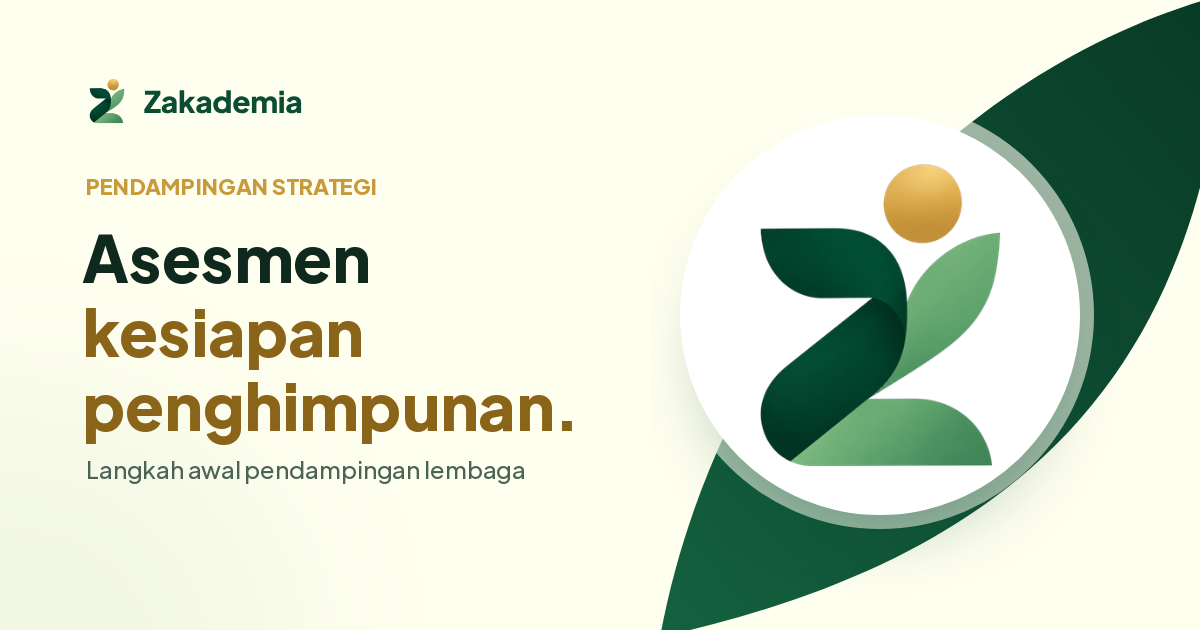
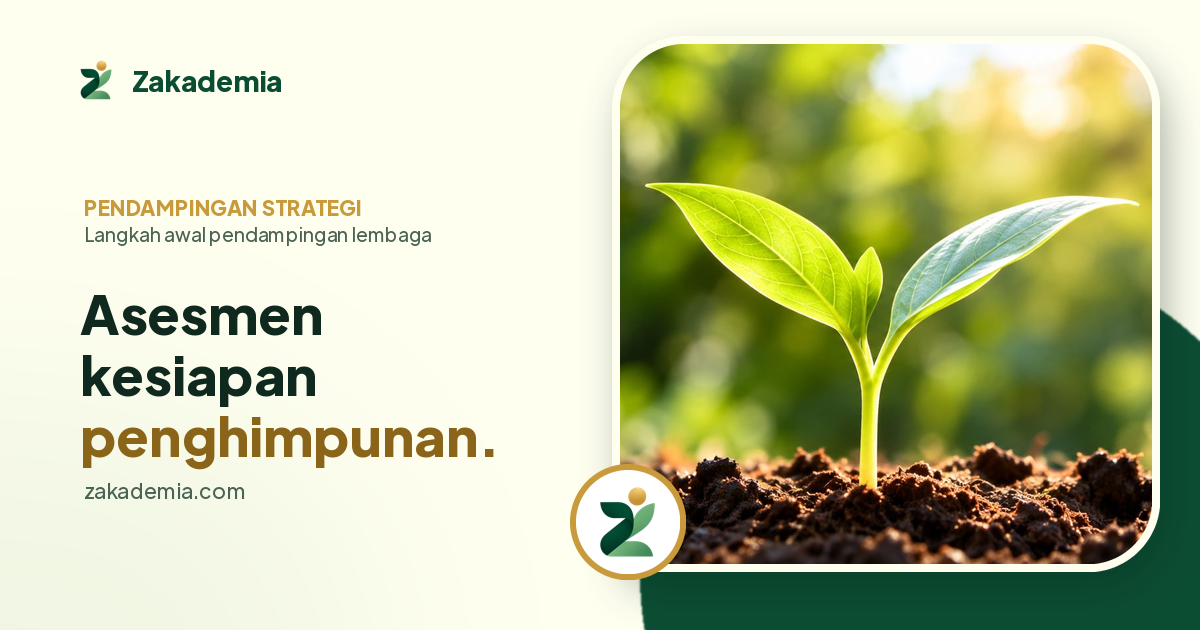
Gambar pratinjau berfoto asli dengan bingkai khas Zakademia untuk artikel Literasi dan layanan
Claude-Session: https://claude.ai/code/session_01EeyJYYscs5mASmc4nchCLR

diff --git a/asesmen/index.html b/asesmen/index.html
@@ -8,7 +8,7 @@
 <meta property="og:title" content="Asesmen Kesiapan Penghimpunan | Zakademia">
 <meta property="og:description" content="Asesmen Kesiapan Penghimpunan Zakademia untuk lembaga zakat, wakaf, dan filantropi Islam.">
 <meta property="og:type" content="website">
-<meta property="og:image" content="https://zakademia.com/assets/images/og-asesmen.png">
+<meta property="og:image" content="https://zakademia.com/assets/images/og-asesmen.png?v=2">
 <meta property="og:image:width" content="1200"><meta property="og:image:height" content="630">
 <meta name="twitter:card" content="summary_large_image">
 <link rel="icon" href="/assets/images/favicon.png">

diff --git a/tools/ogcard.py b/tools/ogcard.py
@@ -1,0 +1,88 @@
+# -*- coding: utf-8 -*-
+"""Gambar pratinjau tautan (1200x630) bergaya Zakademia: teks di kiri, foto asli berbingkai di kanan."""
+import os
+from PIL import Image, ImageDraw, ImageFont, ImageFilter, ImageOps
+
+HERE = os.path.dirname(os.path.abspath(__file__))
+ROOT = os.path.dirname(HERE)
+FONTS = os.path.join(HERE, 'literasi', 'fonts')
+IVORY, INK, GOLD, GOLDT, MUTE, DEEP = (255, 255, 240), (16, 41, 31), (201, 154, 59), (138, 100, 24), (74, 99, 85), (11, 77, 51)
+
+def font(w, s): return ImageFont.truetype(os.path.join(FONTS, f'plus-jakarta-sans-latin-{w}-normal.woff'), s)
+
+def rounded_mask(size, radii, scale=4):
+    w, h = size; W, H = w * scale, h * scale
+    m = Image.new('L', (W, H), 0); d = ImageDraw.Draw(m)
+    tl, tr, br, bl = [r * scale for r in radii]
+    d.rectangle((0, 0, W, H), fill=255)
+    for (cx, cy, r, box) in [(0, 0, tl, (0, 0)), (W, 0, tr, (W - tr, 0)), (W, H, br, (W - br, H - br)), (0, H, bl, (0, H - bl))]:
+        if not r: continue
+        x0, y0 = box
+        d.rectangle((x0, y0, x0 + r, y0 + r), fill=0)
+        ex = (x0 if cx == 0 else x0 - r, y0 if cy == 0 else y0 - r)
+        d.pieslice((ex[0], ex[1], ex[0] + 2 * r, ex[1] + 2 * r), 0, 360, fill=255)
+    return m.resize((w, h), Image.LANCZOS)
+
+def card(photo, eyebrow, sub, lines, footer, out, icon=None, focus=(0.5, 0.5)):
+    im = Image.new('RGB', (1200, 630), IVORY)
+    # pendar hijau lembut di kiri bawah
+    gl = Image.new('L', (1200, 630), 0); ImageDraw.Draw(gl).ellipse((-300, 380, 380, 900), fill=120)
+    im.paste(Image.new('RGB', (1200, 630), (226, 236, 214)), (0, 0), gl.filter(ImageFilter.GaussianBlur(110)))
+    d = ImageDraw.Draw(im)
+    # daun hijau khas di belakang bingkai foto
+    leaf = Image.new('L', (1200, 630), 0); ImageDraw.Draw(leaf).ellipse((640, 250, 1300, 900), fill=255)
+    im.paste(Image.new('RGB', (1200, 630), DEEP), (0, 0), leaf.filter(ImageFilter.GaussianBlur(1)))
+    # foto berbingkai: sudut asimetris seperti kartu di situs
+    X, Y, Wp, Hp = 620, 44, 532, 520
+    ph = Image.open(photo).convert('RGB')
+    ph = ImageOps.fit(ph, (Wp, Hp), Image.LANCZOS, centering=focus)
+    radii = (64, 64, 64, 16)
+    sh = Image.new('L', (1200, 630), 0); sh.paste(rounded_mask((Wp, Hp), radii), (X + 8, Y + 18))
+    im.paste(Image.new('RGB', (1200, 630), (8, 40, 26)), (0, 0), sh.filter(ImageFilter.GaussianBlur(22)).point(lambda v: int(v * .45)))
+    ring = rounded_mask((Wp + 16, Hp + 16), tuple(r + 8 for r in radii))
+    im.paste(Image.new('RGB', ring.size, IVORY), (X - 8, Y - 8), ring)
+    im.paste(ph, (X, Y), rounded_mask((Wp, Hp), radii))
+    # lencana logo di sudut bingkai
+    logo = Image.open(os.path.join(ROOT, 'assets/images/logo-color.png')).convert('RGBA')
+    bx, by, D = X - 50, Y + Hp - 100, 116
+    def disc(dia, color, pos):
+        m = Image.new('L', (dia * 4, dia * 4), 0); ImageDraw.Draw(m).ellipse((0, 0, dia * 4, dia * 4), fill=255)
+        im.paste(Image.new('RGB', (dia, dia), color), pos, m.resize((dia, dia), Image.LANCZOS))
+    disc(D, GOLD, (bx, by)); disc(D - 12, (255, 255, 255), (bx + 6, by + 6))
+    lg = logo.copy(); lg.thumbnail((D - 44, D - 44)); im.paste(lg, (bx + (D - lg.width) // 2, by + (D - lg.height) // 2), lg)
+    # merek di kiri atas
+    lgs = logo.copy(); lgs.thumbnail((40, 40)); im.paste(lgs, (80, 60), lgs)
+    d.text((132, 62), 'Zakademia', font=font(800, 28), fill=DEEP)
+    # judul: setiap baris dibungkus agar muat, baris terakhir berwarna emas
+    size = 54
+    last = len(lines) - 1
+    words = [(w, i == last) for i, t in enumerate(lines) for w in t.split()]
+    def wrap(sz):
+        F = font(800, sz); rows = []; cur = []
+        for w in words:
+            test = ' '.join(x for x, _ in cur + [w])
+            if cur and d.textlength(test, font=F) > 480: rows.append(cur); cur = [w]
+            else: cur.append(w)
+        rows.append(cur); return rows
+    rows = wrap(size)
+    while len(rows) > 3 and size > 40: size -= 2; rows = wrap(size)
+    f = font(800, size); lh = int(size * 1.14)
+    top = 92
+    block = top + len(rows) * lh + 52
+    y = max(126, int(350 - block / 2))
+    if icon:
+        ic = Image.open(icon).convert('RGBA').resize((60, 60), Image.LANCZOS); im.paste(ic, (82, y), ic)
+        d.text((156, y + 4), eyebrow.upper(), font=font(800, 21), fill=GOLD)
+        d.text((156, y + 32), sub, font=font(500, 19), fill=MUTE)
+    else:
+        d.text((84, y + 8), eyebrow.upper(), font=font(800, 21), fill=GOLD)
+        if sub: d.text((84, y + 36), sub, font=font(500, 19), fill=MUTE)
+    y += top
+    for row in rows:
+        x = 80
+        for k, (w, gold) in enumerate(row):
+            t = w + (' ' if k < len(row) - 1 else '')
+            d.text((x, y), t, font=f, fill=GOLDT if gold else INK); x += d.textlength(t, font=f)
+        y += lh
+    d.text((84, y + 16), footer, font=font(500, 21), fill=MUTE)
+    im.save(out, optimize=True, quality=88)

diff --git a/tools/literasi/build.py b/tools/literasi/build.py
@@ -125,33 +125,30 @@ bs.forEach(function(b){{b.onclick=function(){{pick(b.dataset.r);}};}});pick(new 
 '''
     return out + FOOT
 
+# Foto per artikel. Taruh foto asli di tools/literasi/foto/<slug>.jpg untuk menggantinya.
+FOTO = {
+    'rakornas-baznas-2026-target-70-triliun': ('foto-1.jpg', (0.45, 0.5)),
+    'wakaf-uang-wakaf-melalui-uang-cwls': ('foto-4.jpg', (0.5, 0.5)),
+    'rs-mata-achmad-wardi-wakaf-yang-mengembalikan-penglihatan': ('foto-7.jpg', (0.5, 0.5)),
+    'cara-menghitung-zakat-penghasilan-2026': ('foto-5.jpg', (0.5, 0.6)),
+    'membaca-angka-zakat-nasional-2025': ('foto-2.jpg', (0.5, 0.5)),
+    'zakat-infak-sedekah-wakaf-apa-bedanya': ('foto-3.jpg', (0.5, 0.5)),
+}
+
 def og_images():
     try:
-        from PIL import Image, ImageDraw, ImageFont, ImageFilter
-    except ImportError:
-        print('PIL tidak tersedia; gambar pratinjau dilewati'); return
-    F = os.path.join(os.path.dirname(__file__), 'fonts')
-    def font(w, s): return ImageFont.truetype(os.path.join(F, f'plus-jakarta-sans-latin-{w}-normal.woff'), s)
-    base = Image.open(os.path.join(ROOT, 'assets/images/og-image.png')).convert('RGB')
+        sys.path.insert(0, os.path.join(os.path.dirname(__file__), '..'))
+        from ogcard import card
+    except ImportError as ex:
+        print('gambar pratinjau dilewati:', ex); return
     for a in ARTIKEL:
         n, q, ic = RUBRIK[a['rubrik']]
-        im = base.copy()
-        layer = Image.new('RGB', (650, 500), (255, 255, 240)); gl = Image.new('L', (650, 500), 0)
-        ImageDraw.Draw(gl).ellipse((-260, 260, 300, 760), fill=110); gl = gl.filter(ImageFilter.GaussianBlur(90))
-        layer.paste(Image.new('RGB', (650, 500), (226, 236, 214)), (0, 0), gl); im.paste(layer, (0, 130))
-        icon = Image.open(os.path.join(ROOT, 'assets/images', ic)).convert('RGBA').resize((60, 60))
-        d = ImageDraw.Draw(im)
-        lines = a['og']; size = 60
-        while max(d.textlength(t, font=font(800, size)) for t in lines) > 560: size -= 2
-        f = font(800, size); lh = int(size * 1.16)
-        block = 70 + len(lines) * lh + 46; y = int(330 - block / 2)
-        im.paste(icon, (84, y), icon)
-        d.text((158, y + 4), n.upper(), font=font(800, 22), fill=(201, 154, 59))
-        d.text((158, y + 32), q, font=font(500, 20), fill=(74, 99, 85)); y += 82
-        for i, t in enumerate(lines):
-            d.text((82, y), t, font=f, fill=(16, 41, 31) if i < len(lines) - 1 else (138, 100, 24)); y += lh
-        d.text((86, y + 14), 'Literasi Zakademia · ' + tgl(a['tanggal']), font=font(500, 22), fill=(74, 99, 85))
-        im.save(os.path.join(ROOT, f'assets/images/og-lit-{a["slug"]}.png'), optimize=True)
+        own = [os.path.join(os.path.dirname(__file__), 'foto', a['slug'] + x) for x in ('.jpg', '.jpeg', '.png')]
+        own = [x for x in own if os.path.exists(x)]
+        fname, focus = FOTO.get(a['slug'], ('foto-3.jpg', (0.5, 0.5)))
+        photo = own[0] if own else os.path.join(ROOT, 'assets/images', fname)
+        card(photo, n, q, a['og'], 'Literasi Zakademia · ' + tgl(a['tanggal']),
+             os.path.join(ROOT, f'assets/images/og-lit-{a["slug"]}.png'), icon=os.path.join(ROOT, 'assets/images', ic), focus=focus if not own else (0.5, 0.5))
 
 def home_cards():
     """Sisipkan kartu tulisan terbaru di bagian Literasi pada index.html (di antara penanda)."""

diff --git a/asesmen/lib.php b/asesmen/lib.php
@@ -380,7 +380,7 @@ function share_meta(string $key, string $url): string
     return '<title>' . e($t) . '</title><meta name="description" content="' . e($d) . '">'
         . '<meta property="og:type" content="website"><meta property="og:site_name" content="Zakademia">'
         . '<meta property="og:title" content="' . e($t) . '"><meta property="og:description" content="' . e($d) . '">'
-        . '<meta property="og:url" content="' . e($base . $url) . '"><meta property="og:image" content="' . e($base . '/assets/images/' . $img) . '">'
+        . '<meta property="og:url" content="' . e($base . $url) . '"><meta property="og:image" content="' . e($base . '/assets/images/' . $img . '?v=2') . '">'
         . '<meta property="og:image:width" content="1200"><meta property="og:image:height" content="630"><meta name="twitter:card" content="summary_large_image">';
 }
 /** Untuk pengunjung yang belum masuk: tampilkan pratinjau tautan, lalu arahkan ke halaman masuk. */

diff --git a/tools/og_layanan.py b/tools/og_layanan.py
@@ -1,0 +1,14 @@
+# -*- coding: utf-8 -*-
+"""Gambar pratinjau tautan layanan. Jalankan: python3 tools/og_layanan.py"""
+import os, sys
+sys.path.insert(0, os.path.dirname(os.path.abspath(__file__)))
+from ogcard import card, ROOT
+L = [
+    ('og-riset.png', 'foto-1.jpg', 'Riset Kebutuhan', 'Kuesioner, tautan, dan kode QR', ['Buat survei,', 'dengar kebutuhan.']),
+    ('og-analitik.png', 'foto-2.jpg', 'Data & Analitik', 'Retensi, CLV, dan CAC', ['Kesehatan', 'penghimpunan.']),
+    ('og-asesmen.png', 'foto-3.jpg', 'Pendampingan Strategi', 'Langkah awal pendampingan lembaga', ['Asesmen kesiapan', 'penghimpunan.']),
+    ('og-belajar.png', 'foto-5.jpg', 'Ruang Belajar', 'Kamar Analitik dan Kamar Riset', ['Belajar tenang,', 'praktik langsung.']),
+]
+for out, foto, eb, sub, lines in L:
+    card(os.path.join(ROOT, 'assets/images', foto), eb, sub, lines, 'zakademia.com', os.path.join(ROOT, 'assets/images', out))
+print('selesai')

diff --git a/README.md b/README.md
@@ -35,3 +35,5 @@ Alur **Salin situs aktif** (dijalankan manual dari tab Actions) menyimpan isi si
 ## Literasi (artikel)
 
 Isi artikel ada di `tools/literasi/articles.py`. Setelah mengubah atau menambah artikel, jalankan `python3 tools/literasi/build.py` dari akar repositori. Skrip ini membuat halaman `literasi/`, gambar pratinjau `assets/images/og-lit-*.png`, dan kartu "Bacaan terbaru" di `index.html`. Folder `tools/` tidak ikut diunggah ke hosting.
+
+Gambar pratinjau memakai foto berbingkai khas Zakademia (`tools/ogcard.py`). Untuk memakai foto asli sendiri pada suatu artikel, simpan fotonya sebagai `tools/literasi/foto/<slug>.jpg` lalu jalankan ulang skrip. Gambar pratinjau layanan dibuat dengan `python3 tools/og_layanan.py`.
